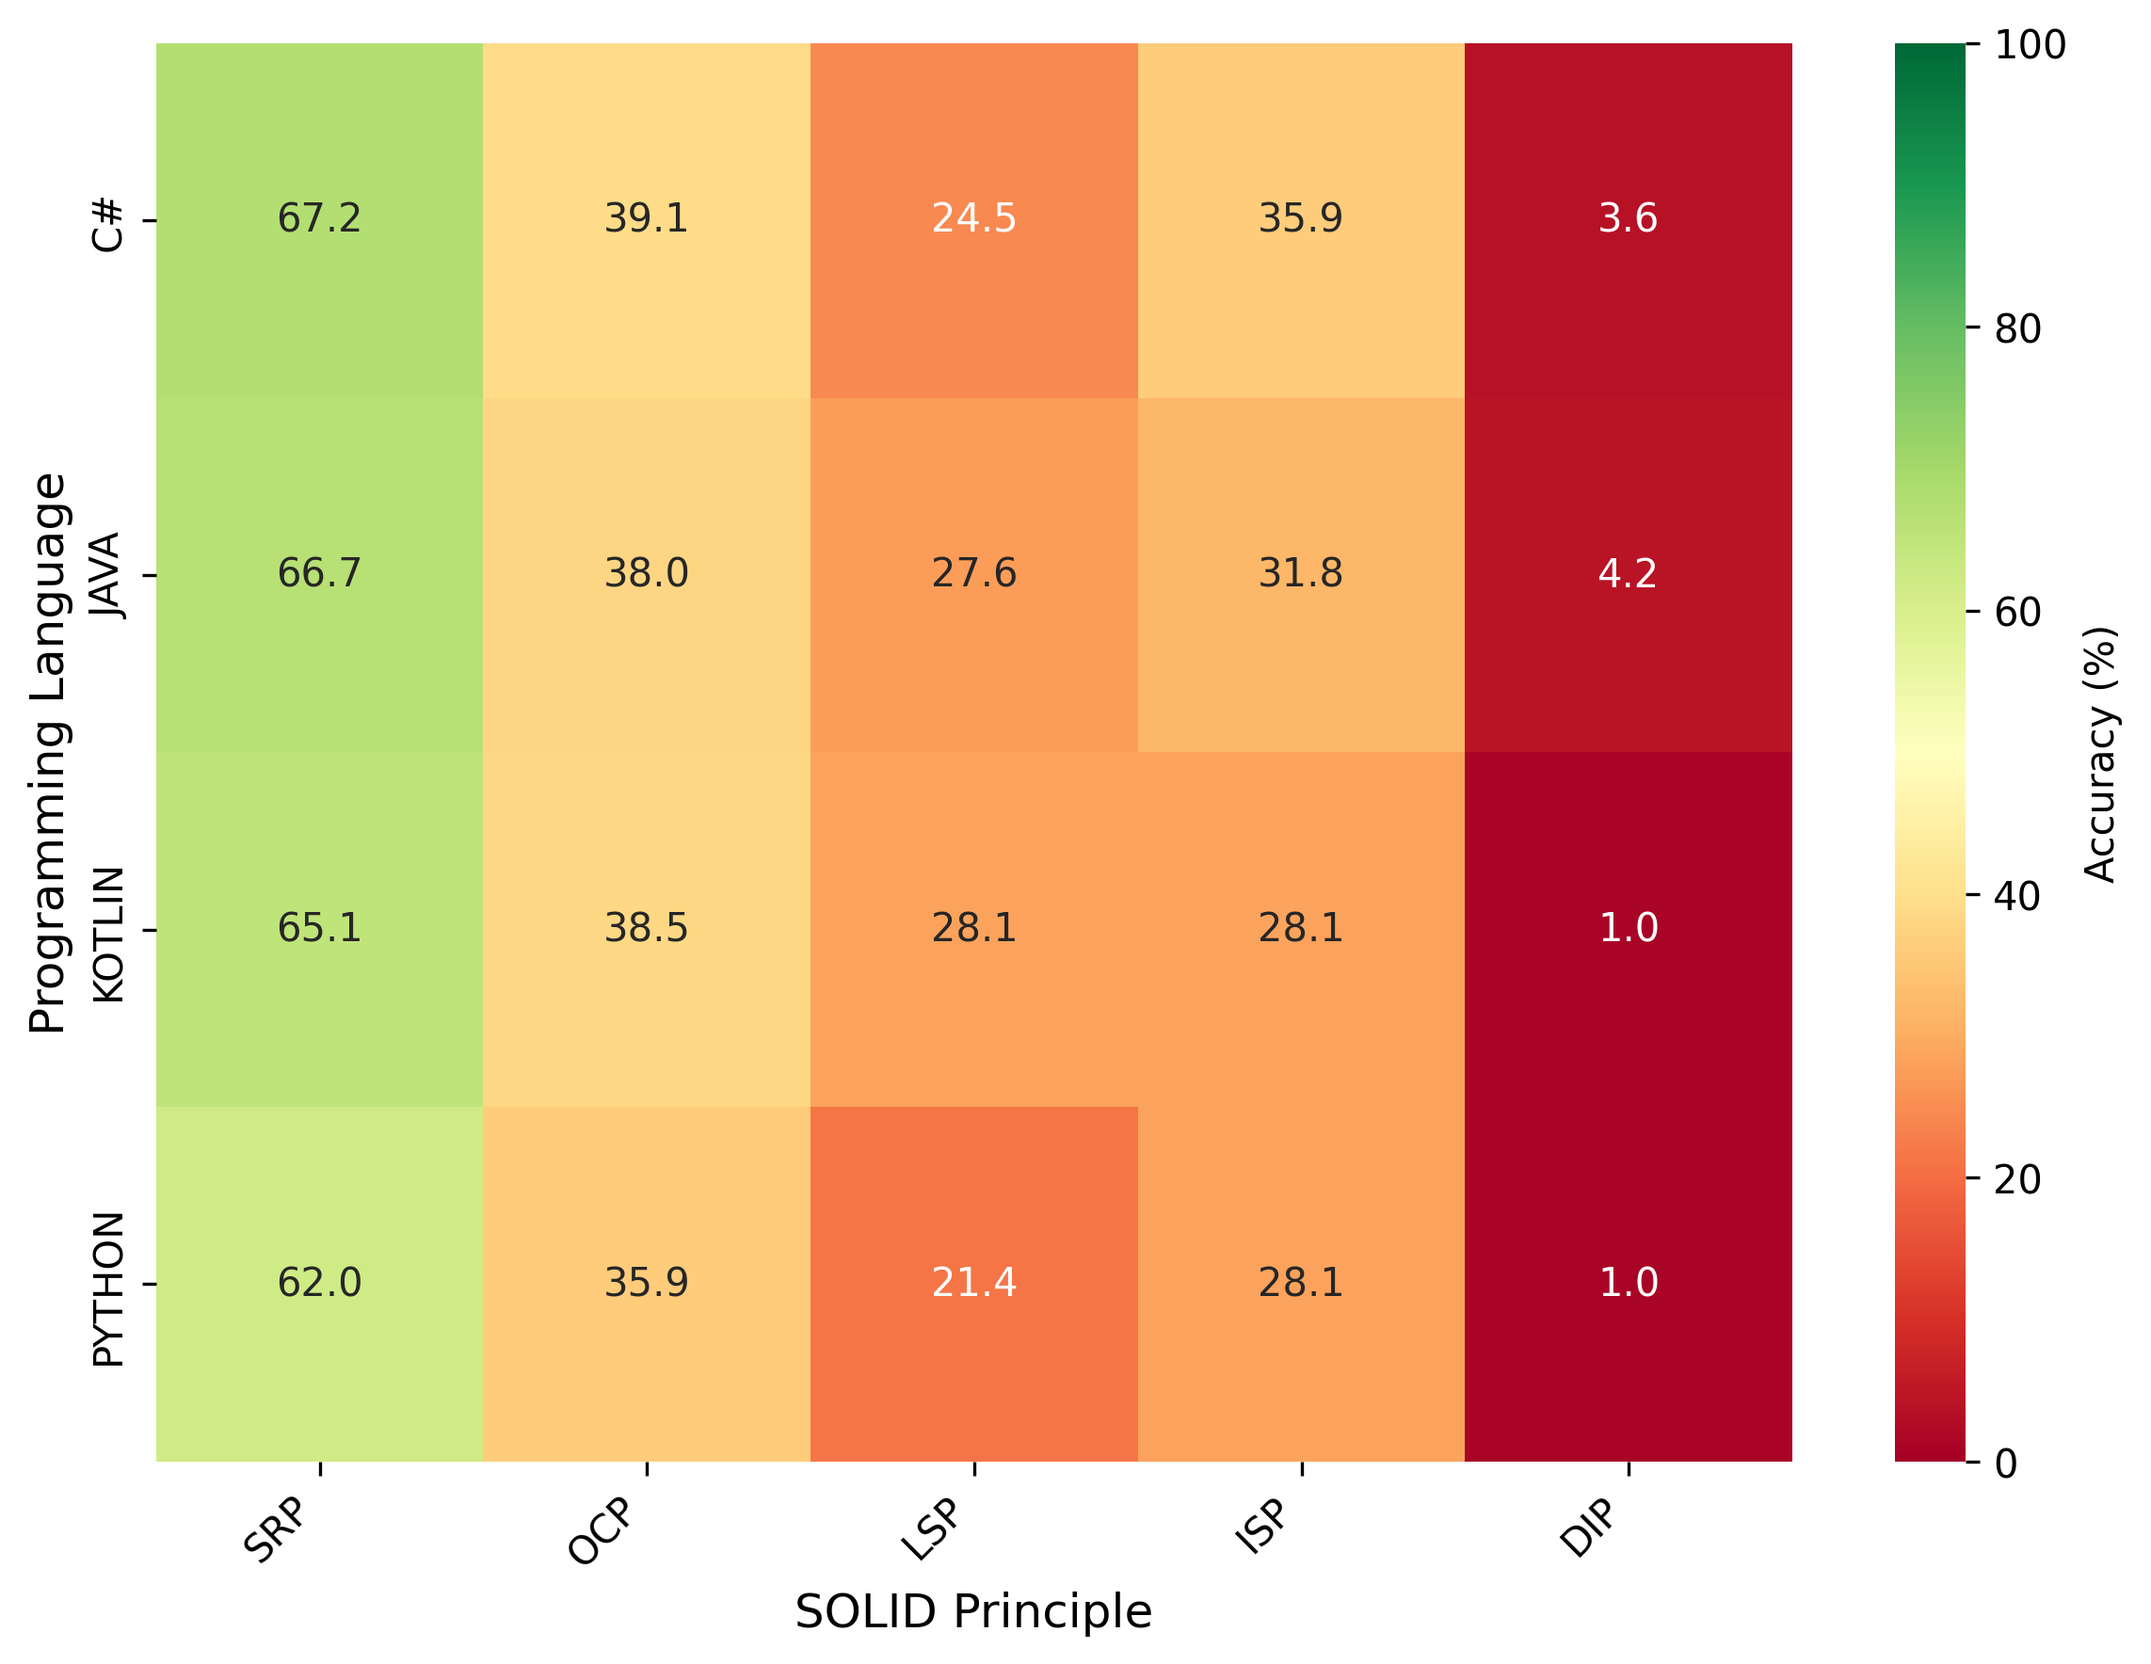
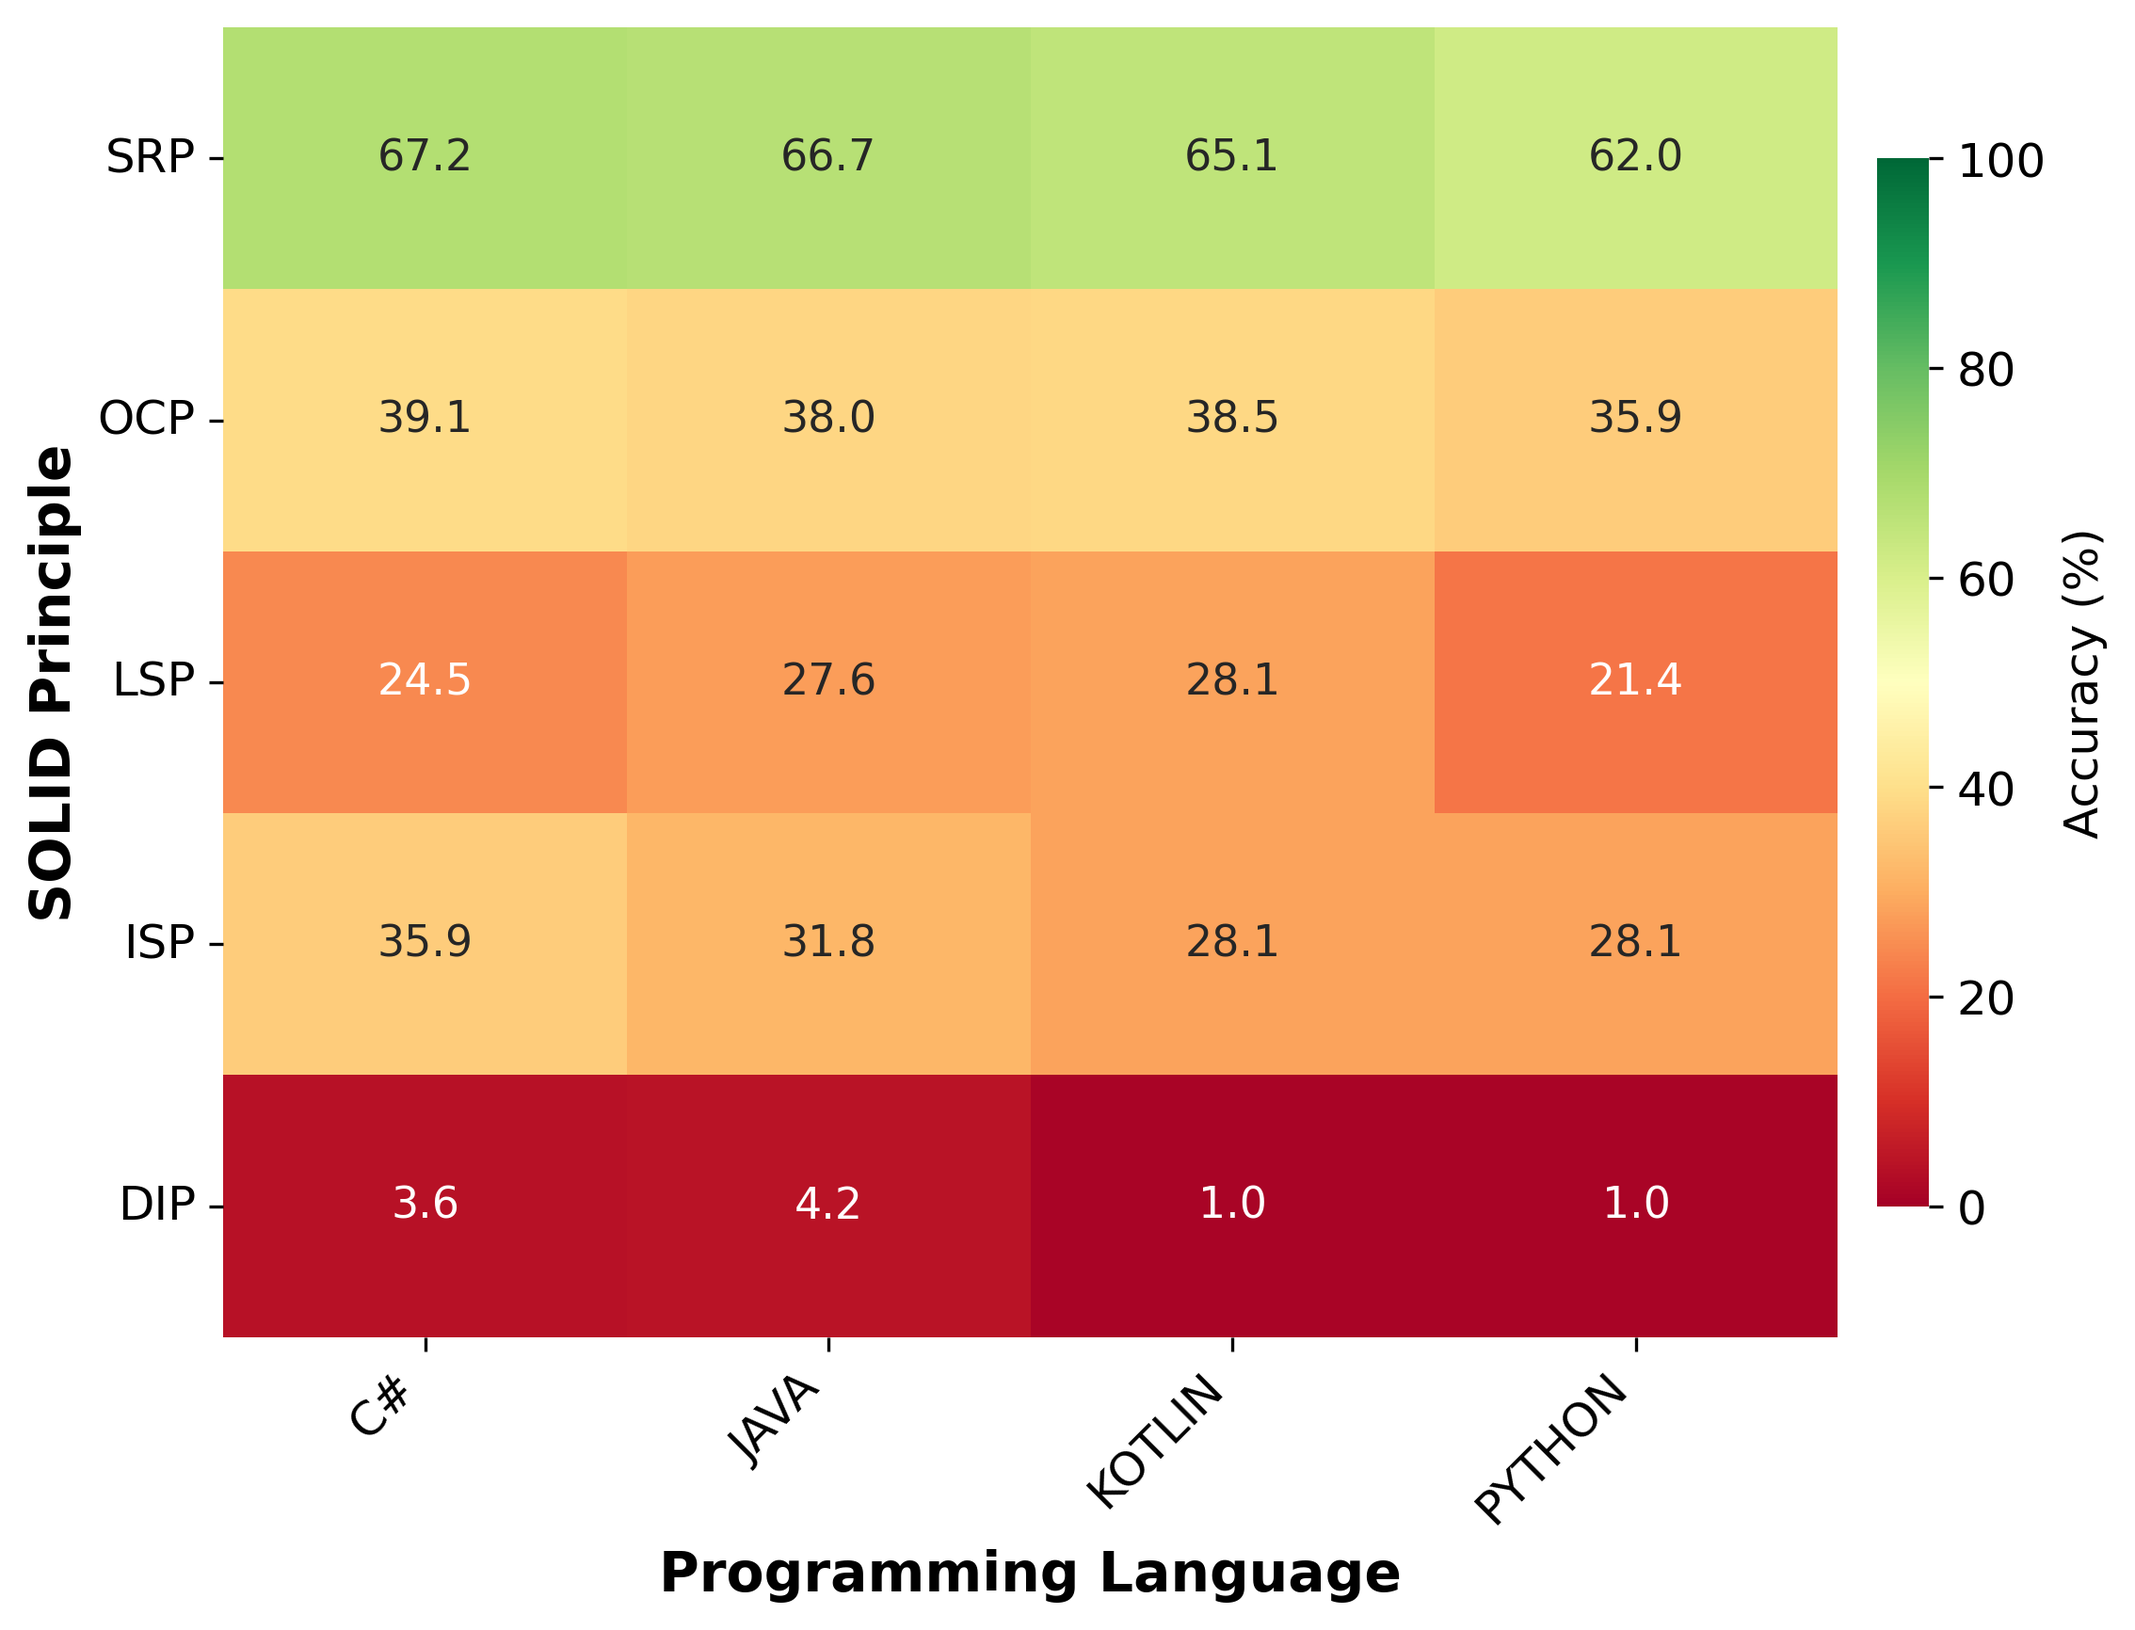
updated analysis

diff --git a/final_analysis.py b/final_analysis.py
@@ -200,125 +200,6 @@ def load_and_process_data(json_file_path):
     
     print(f"\nProcessed violations: {list(accuracy_results.keys())}")
     return accuracy_results, f1_results, language_results
-    """
-    Load JSON data and process it to extract violation detection accuracy and other metrics
-    """
-    with open(json_file_path, 'r') as f:
-        data = json.load(f)
-    
-    print(f"Found {len(data)} top-level keys in JSON data")
-    
-    # Initialize data structures for storing different types of results
-    accuracy_results = defaultdict(lambda: defaultdict(lambda: {'correct': 0, 'total': 0}))
-    f1_results = defaultdict(lambda: defaultdict(lambda: {'tp': 0, 'fp': 0, 'fn': 0}))
-    language_results = defaultdict(lambda: defaultdict(lambda: {'correct': 0, 'total': 0}))
-    
-    # Process each model's results
-    for json_key, model_data in data.items():
-        print(f"Processing key: {json_key}")
-        
-        # Extract information from the key
-        parts = json_key.split('--')
-        if len(parts) >= 3:
-            violation_from_key = parts[0].upper()
-            model_name = parts[1]
-            strategy = parts[2]
-        else:
-            continue
-        
-        # Process the nested structure
-        if isinstance(model_data, dict):
-            # Debug: show what we're looking for vs what we found
-            print(f"  Looking for '{violation_from_key.lower()}' in keys: {list(model_data.keys())}")
-            
-            # Look for the nested structure with violation type as key
-            if violation_from_key.lower() in model_data:
-                nested_data = model_data[violation_from_key.lower()]
-                print(f"  Found nested data for {violation_from_key}")
-                if isinstance(nested_data, dict) and 'violation_results' in nested_data:
-                    violation_results = nested_data['violation_results']
-                    print(f"  Found violation_results with keys: {list(violation_results.keys())}")
-                    
-                    for violation_name, violation_data in violation_results.items():
-                        if 'items' in violation_data:
-                            print(f"  Processing {len(violation_data['items'])} items for {violation_name}")
-                            
-                            for item in violation_data['items']:
-                                level = item.get('level', 'UNKNOWN')
-                                expected_violation = item.get('expected_violation', 'UNKNOWN')
-                                detected_violation = item.get('detected_violation', 'NONE')
-                                violation_match = item.get('violation_match', False)
-                                language = item.get('language', 'UNKNOWN')
-                                
-                                # Accuracy results by difficulty level
-                                accuracy_results[expected_violation][level]['total'] += 1
-                                if violation_match:
-                                    accuracy_results[expected_violation][level]['correct'] += 1
-                                
-                                # F1 results by strategy and model
-                                strategy_model_key = f"{strategy}_{model_name}"
-                                if violation_match:
-                                    f1_results[expected_violation][strategy_model_key]['tp'] += 1
-                                else:
-                                    if detected_violation != 'NONE' and detected_violation != expected_violation:
-                                        f1_results[expected_violation][strategy_model_key]['fp'] += 1
-                                    if detected_violation == 'NONE':
-                                        f1_results[expected_violation][strategy_model_key]['fn'] += 1
-                                
-                                # Language results
-                                language_results[language][expected_violation]['total'] += 1
-                                if violation_match:
-                                    language_results[language][expected_violation]['correct'] += 1
-            
-            # Also check other possible structures...
-            elif 'violation_results' in model_data:
-                print(f"  Found violation_results directly in model_data")
-                violation_results = model_data['violation_results']
-                
-                for violation_name, violation_data in violation_results.items():
-                    if 'items' in violation_data:
-                        print(f"  Processing {len(violation_data['items'])} items for {violation_name}")
-                        
-                        for item in violation_data['items']:
-                            level = item.get('level', 'UNKNOWN')
-                            expected_violation = item.get('expected_violation', 'UNKNOWN')
-                            detected_violation = item.get('detected_violation', 'NONE')
-                            violation_match = item.get('violation_match', False)
-                            language = item.get('language', 'UNKNOWN')
-                            
-                            # Accuracy results by difficulty level
-                            accuracy_results[expected_violation][level]['total'] += 1
-                            if violation_match:
-                                accuracy_results[expected_violation][level]['correct'] += 1
-                            
-                            # F1 results by strategy and model
-                            strategy_model_key = f"{strategy}_{model_name}"
-                            if violation_match:
-                                f1_results[expected_violation][strategy_model_key]['tp'] += 1
-                            else:
-                                if detected_violation != 'NONE' and detected_violation != expected_violation:
-                                    f1_results[expected_violation][strategy_model_key]['fp'] += 1
-                                if detected_violation == 'NONE':
-                                    f1_results[expected_violation][strategy_model_key]['fn'] += 1
-                            
-                            # Language results
-                            language_results[language][expected_violation]['total'] += 1
-                            if violation_match:
-                                language_results[language][expected_violation]['correct'] += 1
-            else:
-                print(f"  No violation_results found. Available keys: {list(model_data.keys())}")
-                # Let's look deeper into the structure
-                for key, value in list(model_data.items())[:3]:
-                    print(f"    {key}: {type(value)}")
-                    if isinstance(value, dict) and len(value) < 20:
-                        print(f"      Sub-keys: {list(value.keys())}")
-        
-        # Stop after first few entries if we're not finding data
-        if len(accuracy_results) == 0 and json_key.count('--') >= 2:
-            break
-    
-    print(f"\nProcessed violations: {list(accuracy_results.keys())}")
-    return accuracy_results, f1_results, language_results
 
 def calculate_accuracy_matrix(results):
     """
@@ -489,25 +370,25 @@ def calculate_language_matrix(language_results):
     
     print(f"Found languages: {languages}")
     
-    # Create accuracy matrix
+    # Filter out UNKNOWN languages
+    valid_languages = [lang for lang in languages if lang != 'UNKNOWN']
+    
+    # Create accuracy matrix with SOLID principles as rows and languages as columns
     accuracy_matrix = []
-    language_labels = []
     
-    for language in languages:
-        if language in language_results and language != 'UNKNOWN':
-            row = []
-            for violation in solid_principles:
-                if violation in language_results[language]:
-                    total = language_results[language][violation]['total']
-                    correct = language_results[language][violation]['correct']
-                    accuracy = (correct / total * 100) if total > 0 else 0
-                    row.append(accuracy)
-                else:
-                    row.append(0)
-            accuracy_matrix.append(row)
-            language_labels.append(language)
+    for violation in solid_principles:
+        row = []
+        for language in valid_languages:
+            if language in language_results and violation in language_results[language]:
+                total = language_results[language][violation]['total']
+                correct = language_results[language][violation]['correct']
+                accuracy = (correct / total * 100) if total > 0 else 0
+                row.append(accuracy)
+            else:
+                row.append(0)
+        accuracy_matrix.append(row)
     
-    return np.array(accuracy_matrix), language_labels, solid_principles
+    return np.array(accuracy_matrix), solid_principles, valid_languages
 
 def create_heatmap(accuracy_matrix, row_labels, col_labels, 
                   ylabel="Row Labels", xlabel="Column Labels",
@@ -515,32 +396,52 @@ def create_heatmap(accuracy_matrix, row_labels, col_labels,
                   save_path=None, metric_label="Accuracy (%)",
                   cmap='RdYlGn'):
     """
-    Create and display the heatmap
+    Create and display the heatmap with improved font sizes and spacing
     """
     # Check if we have valid data
     if accuracy_matrix.size == 0 or len(row_labels) == 0:
         print("No data available for heatmap generation.")
         return
     
+    # Set font sizes for better readability in 2-column format
+    plt.rcParams.update({
+        'font.size': 14,           # Base font size
+        'axes.titlesize': 16,      # Title font size
+        'axes.labelsize': 14,      # Axis label font size
+        'xtick.labelsize': 12,     # X-axis tick label font size
+        'ytick.labelsize': 12,     # Y-axis tick label font size
+        'legend.fontsize': 12,     # Legend font size
+        'figure.titlesize': 16     # Figure title font size
+    })
+    
     plt.figure(figsize=figsize)
     
-    # Create heatmap
-    sns.heatmap(accuracy_matrix, 
-                annot=True, 
-                fmt='.1f', 
-                cmap=cmap,
-                xticklabels=col_labels,
-                yticklabels=row_labels,
-                cbar_kws={'label': metric_label},
-                vmin=0, 
-                vmax=100)
+    # Create heatmap with adjusted parameters
+    ax = sns.heatmap(accuracy_matrix, 
+                     annot=True, 
+                     fmt='.1f', 
+                     cmap=cmap,
+                     xticklabels=col_labels,
+                     yticklabels=row_labels,
+                     cbar_kws={'label': metric_label, 'shrink': 0.8, 'pad': 0.02},  # Reduced pad to decrease space
+                     vmin=0, 
+                     vmax=100,
+                     annot_kws={'size': 11})  # Font size for annotations in cells
     
-    # plt.title(title, fontsize=16, fontweight='bold')  # Commented out to remove title
-    plt.xlabel(xlabel, fontsize=12)
-    plt.ylabel(ylabel, fontsize=12)
+    # Set labels with increased font size
+    plt.xlabel(xlabel, fontsize=14, fontweight='bold')
+    plt.ylabel(ylabel, fontsize=14, fontweight='bold')
+    
+    # Adjust colorbar font size
+    cbar = ax.collections[0].colorbar
+    cbar.ax.tick_params(labelsize=12)
+    cbar.set_label(metric_label, fontsize=12)
     
     # Rotate x-axis labels if they are long
-    plt.xticks(rotation=45, ha='right')
+    plt.xticks(rotation=45, ha='right', fontsize=12)
+    plt.yticks(rotation=0, fontsize=12)
+    
+    # Adjust layout to prevent clipping
     plt.tight_layout()
     
     if save_path:
@@ -642,20 +543,20 @@ def main():
         
         # 3. Generate accuracy heatmap by programming language
         print("\n=== Generating Accuracy Heatmap by Programming Language ===")
-        lang_matrix, language_labels, principles = calculate_language_matrix(language_results)
+        lang_matrix, principles, language_labels = calculate_language_matrix(language_results)
         
         if lang_matrix.size > 0:
-            create_heatmap(lang_matrix, language_labels, principles,
-                          ylabel="Programming Language", 
-                          xlabel="SOLID Principle",
+            create_heatmap(lang_matrix, principles, language_labels,
+                          ylabel="SOLID Principle", 
+                          xlabel="Programming Language",
                           figsize=(8, 6),
                           save_path="solid_violations_accuracy_by_language.png",
                           metric_label="Accuracy (%)")
             
             # Save to CSV
             df_language = pd.DataFrame(lang_matrix, 
-                                     index=language_labels, 
-                                     columns=principles)
+                                     index=principles, 
+                                     columns=language_labels)
             df_language.to_csv("solid_violations_accuracy_by_language.csv")
             print("Language results saved to 'solid_violations_accuracy_by_language.csv'")
         
